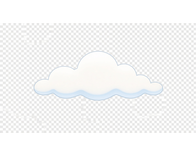
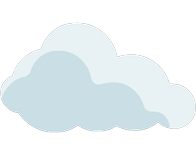
Games: restore Flappy Cat Kenney sprites (revert PR #37 AI art)
Replace checkerboard/black-background AI remasters with CC0 Kenney
Tappy Plane rocks/puff/star and Background Elements env sprites, plus
shelter cat strips with black keyed to alpha. Document sources in ASSETS.md.

diff --git a/frontend/public/games/flappy-cat/ASSETS.md b/frontend/public/games/flappy-cat/ASSETS.md
@@ -1,0 +1,10 @@
+# Flappy Cat art sources
+
+Environment and UI sprites are **real game-art packs** (not AI stills), CC0 from [Kenney.nl](https://kenney.nl):
+
+- **Tappy Plane** — rocks (`rockGrass` / `rockGrassDown`), puff, star; UI/numbers already in-tree
+- **Background Elements** — clouds, houses, trees, sun
+
+Companion cat strips (`cat_*.png`, `remastered_grey_tabby.png`) are the shelter-branded run cycles (black keyed to alpha for canvas draw).
+
+AI remaster from PR #37 was reverted/replaced because it baked checkerboards and opaque backgrounds.
